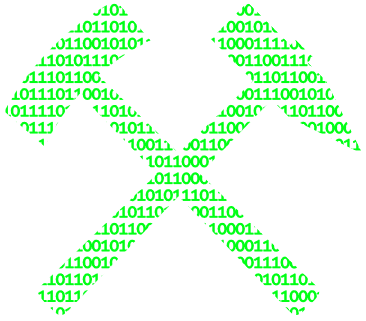
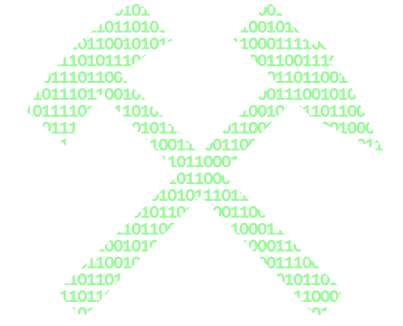
few changes

Changed region(s): [[0.0, 0.0, 0.9918, 0.9969]]

diff --git a/index.html b/index.html
@@ -43,7 +43,7 @@
         </nav>
     </div>
     
-    <main class="container-fluid" style="background-color: #00ff15;">
+    <main class="container-fluid" style="background-color: #98fb98;">
         <div class="container">
             <p id="hero_main_text">
                 Hack&nbsp;Mining! <span class="presented_by">presented by <a href="#organizers">AMT/RWTH&nbsp;&&nbsp;VDMA</a></span>
@@ -151,8 +151,12 @@
                     <strong>What to bring?</strong> Laptop + Peripherals & <em>Machergeist</em>. WiFi + additional hardware will be provided<br>
                 </div>
                 <div style="padding-bottom:0.30em;">
-                    <strong>Registration Deadline?</strong> <span>25. September 2022 23:59:59</span><br>
+                    <strong>Registration Deadline?</strong>  25. September 2022, 23:59:59 <br>
                 </div>
+                <div style="padding-bottom:0.30em;">
+                    <strong>Prizes?</strong> <a href="#prices">&#128071;</a> <br>
+                </div>
+
             </p>
             
             <p>
@@ -170,7 +174,9 @@
                 <hgroup>
                     <h1><span class="highlight_green">Register here!</span></h1>
                     <h5>Register for Hack&nbsp;Mining! @ Wuellnerstrasse 2, 52056 Aachen -- 07.&nbsp;Oct. to 09.&nbsp;Oct. 2022.</h5>
+                    
                 </hgroup>
+                
                 
                 <form action="https://submit-form.com/S89ZTrlF">
                     
@@ -180,7 +186,7 @@
                     <input type="email" id="email" name="email" placeholder="youremail@domain.com" required="" />
                     
                     <fieldset>
-                        <legend>Your T-Shirt size</legend>
+                        <legend>Get your free <em>Hack Mining!</em> T-Shirt. Your size</legend>
                         <label for="medium">
                             <input type="radio" id="medium" name="size" value="medium">
                             S

diff --git a/static/css/custom.css b/static/css/custom.css
@@ -22,10 +22,10 @@
     background: linear-gradient(to top, #eaff00 40%, transparent 40%);
 }
 .highlight_green{
-    background: linear-gradient(to top, #00ff15 40%, transparent 40%);
+    background: linear-gradient(to top, #98fb98 40%, transparent 40%);
 }
 .highlight_green2{
-    background: linear-gradient(to top, #00ff15 27%, transparent 27%);
+    background: linear-gradient(to top, #98fb98 27%, transparent 27%);
 }
 
 #section_heading{
@@ -48,7 +48,7 @@ textarea{
 
 .submit_button{
     color: black;
-    background-color: #00ff15;
+    background-color: #98fb98;
     font-weight: 550;
 
 }
